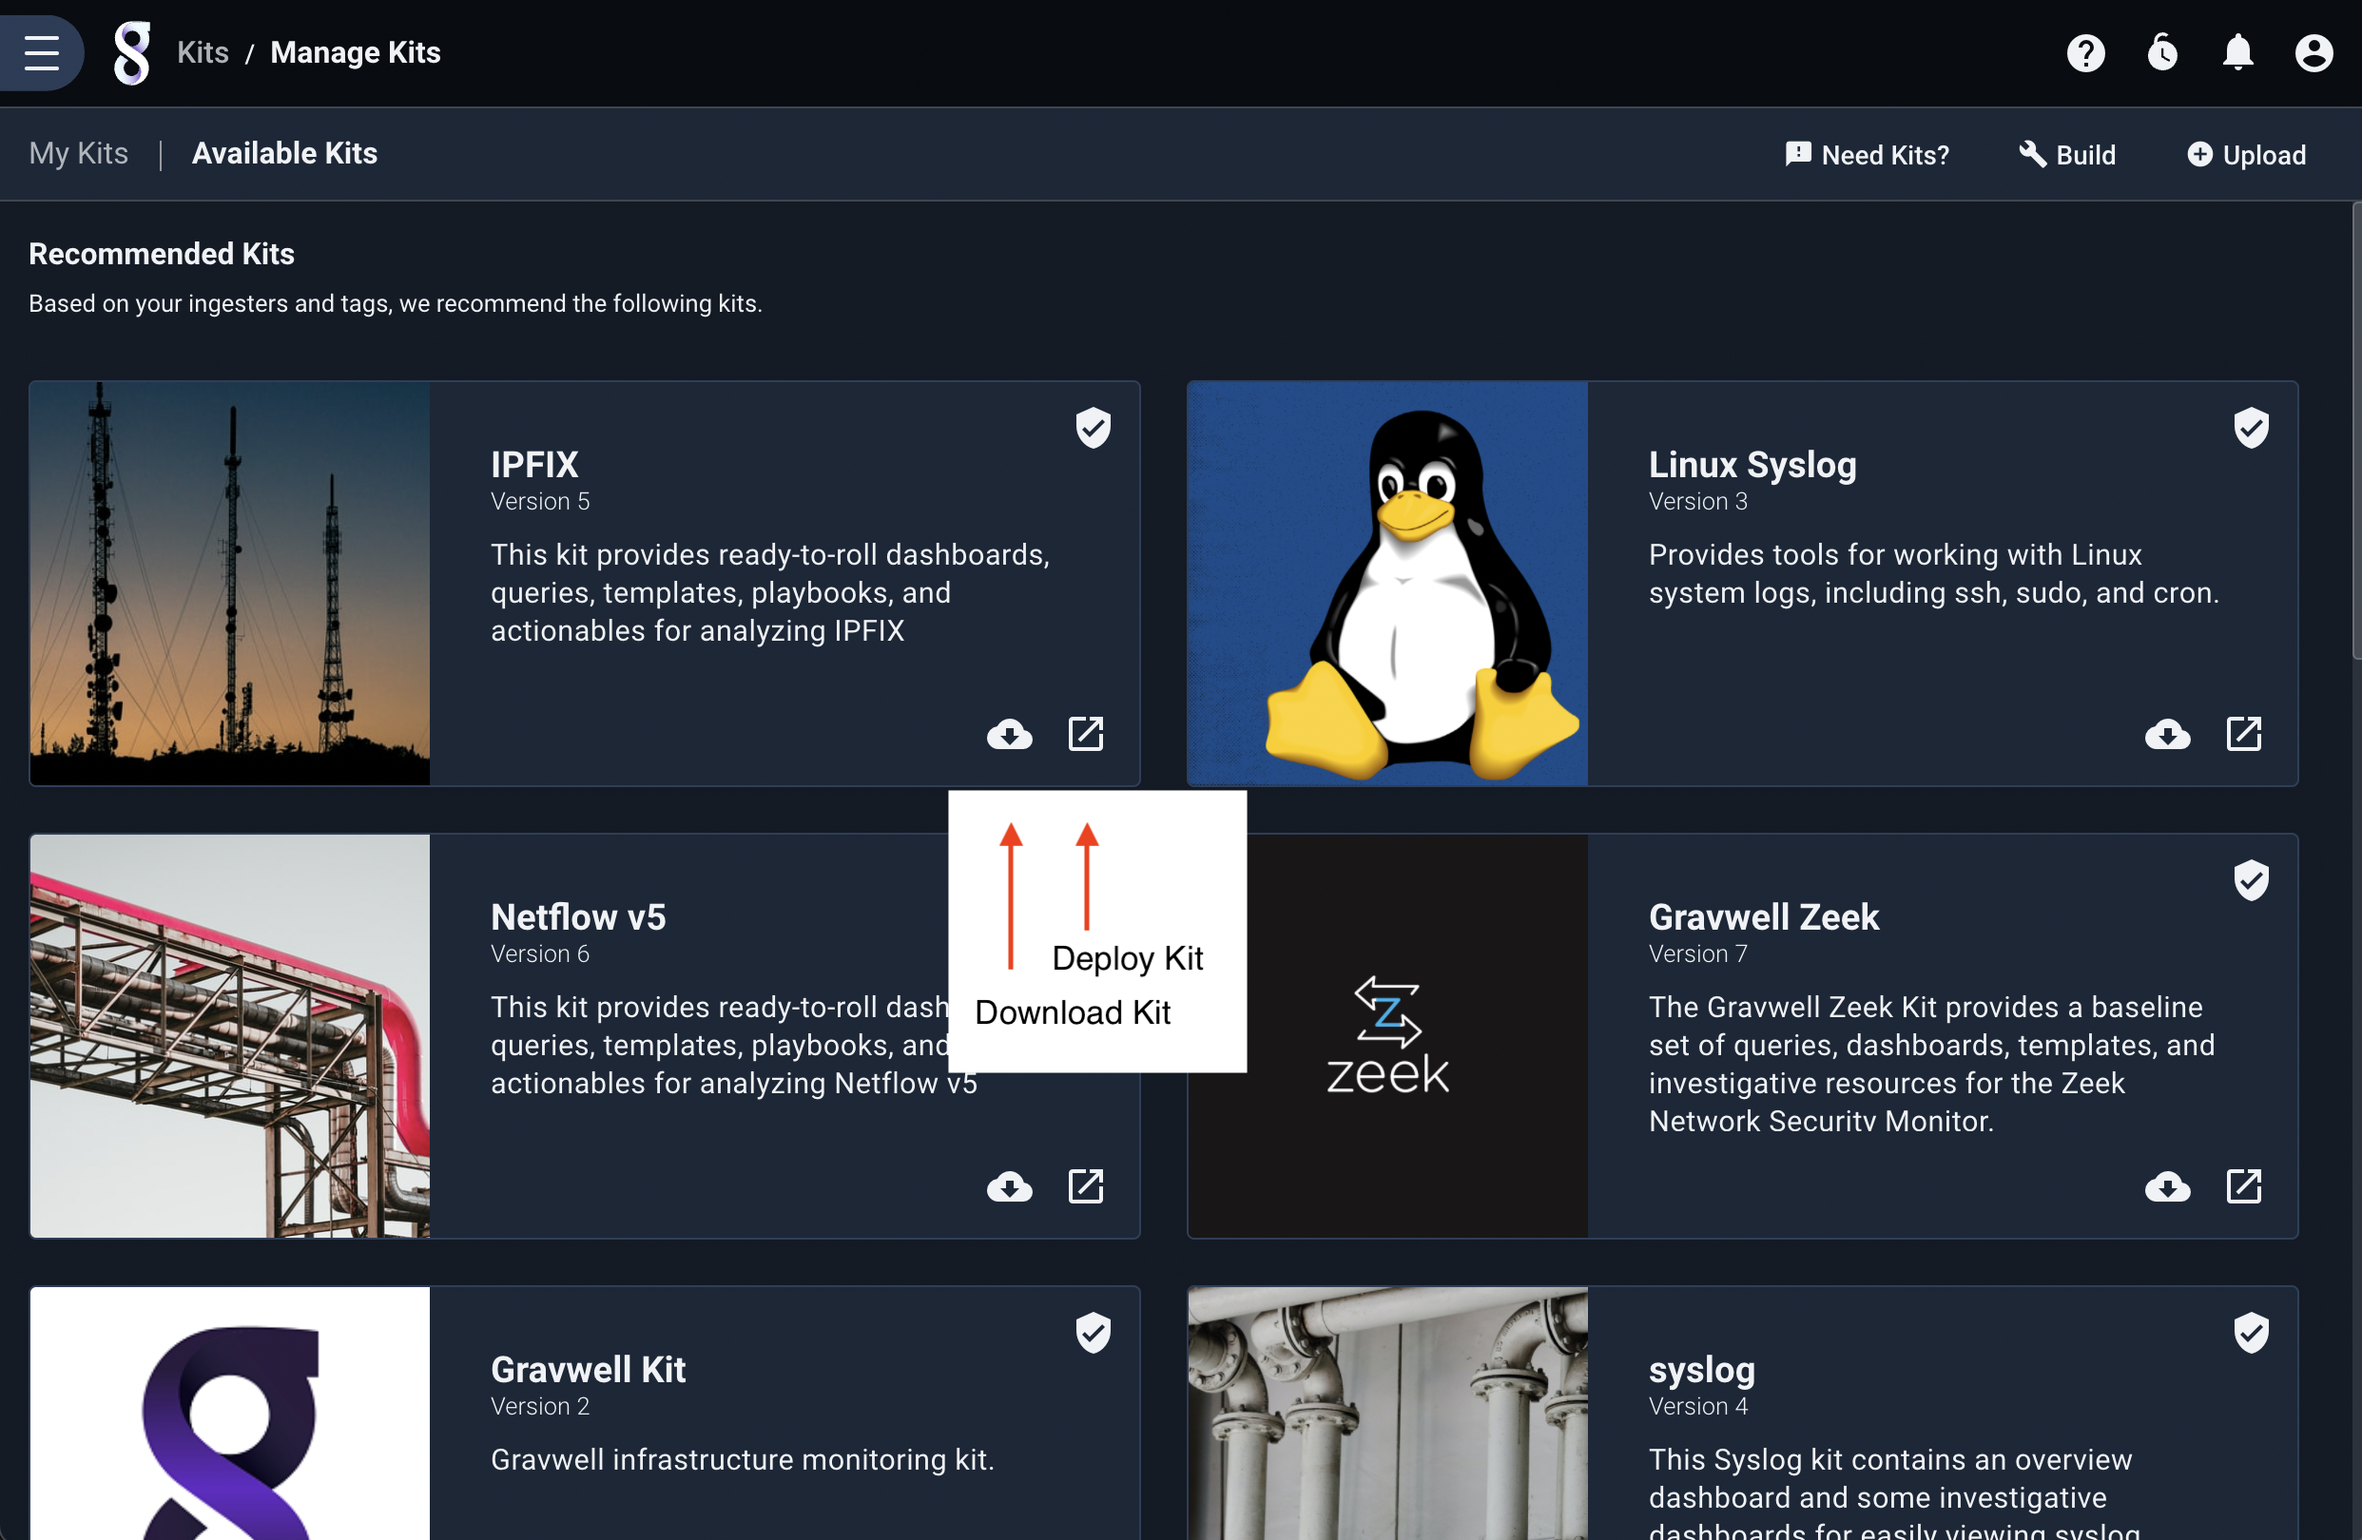
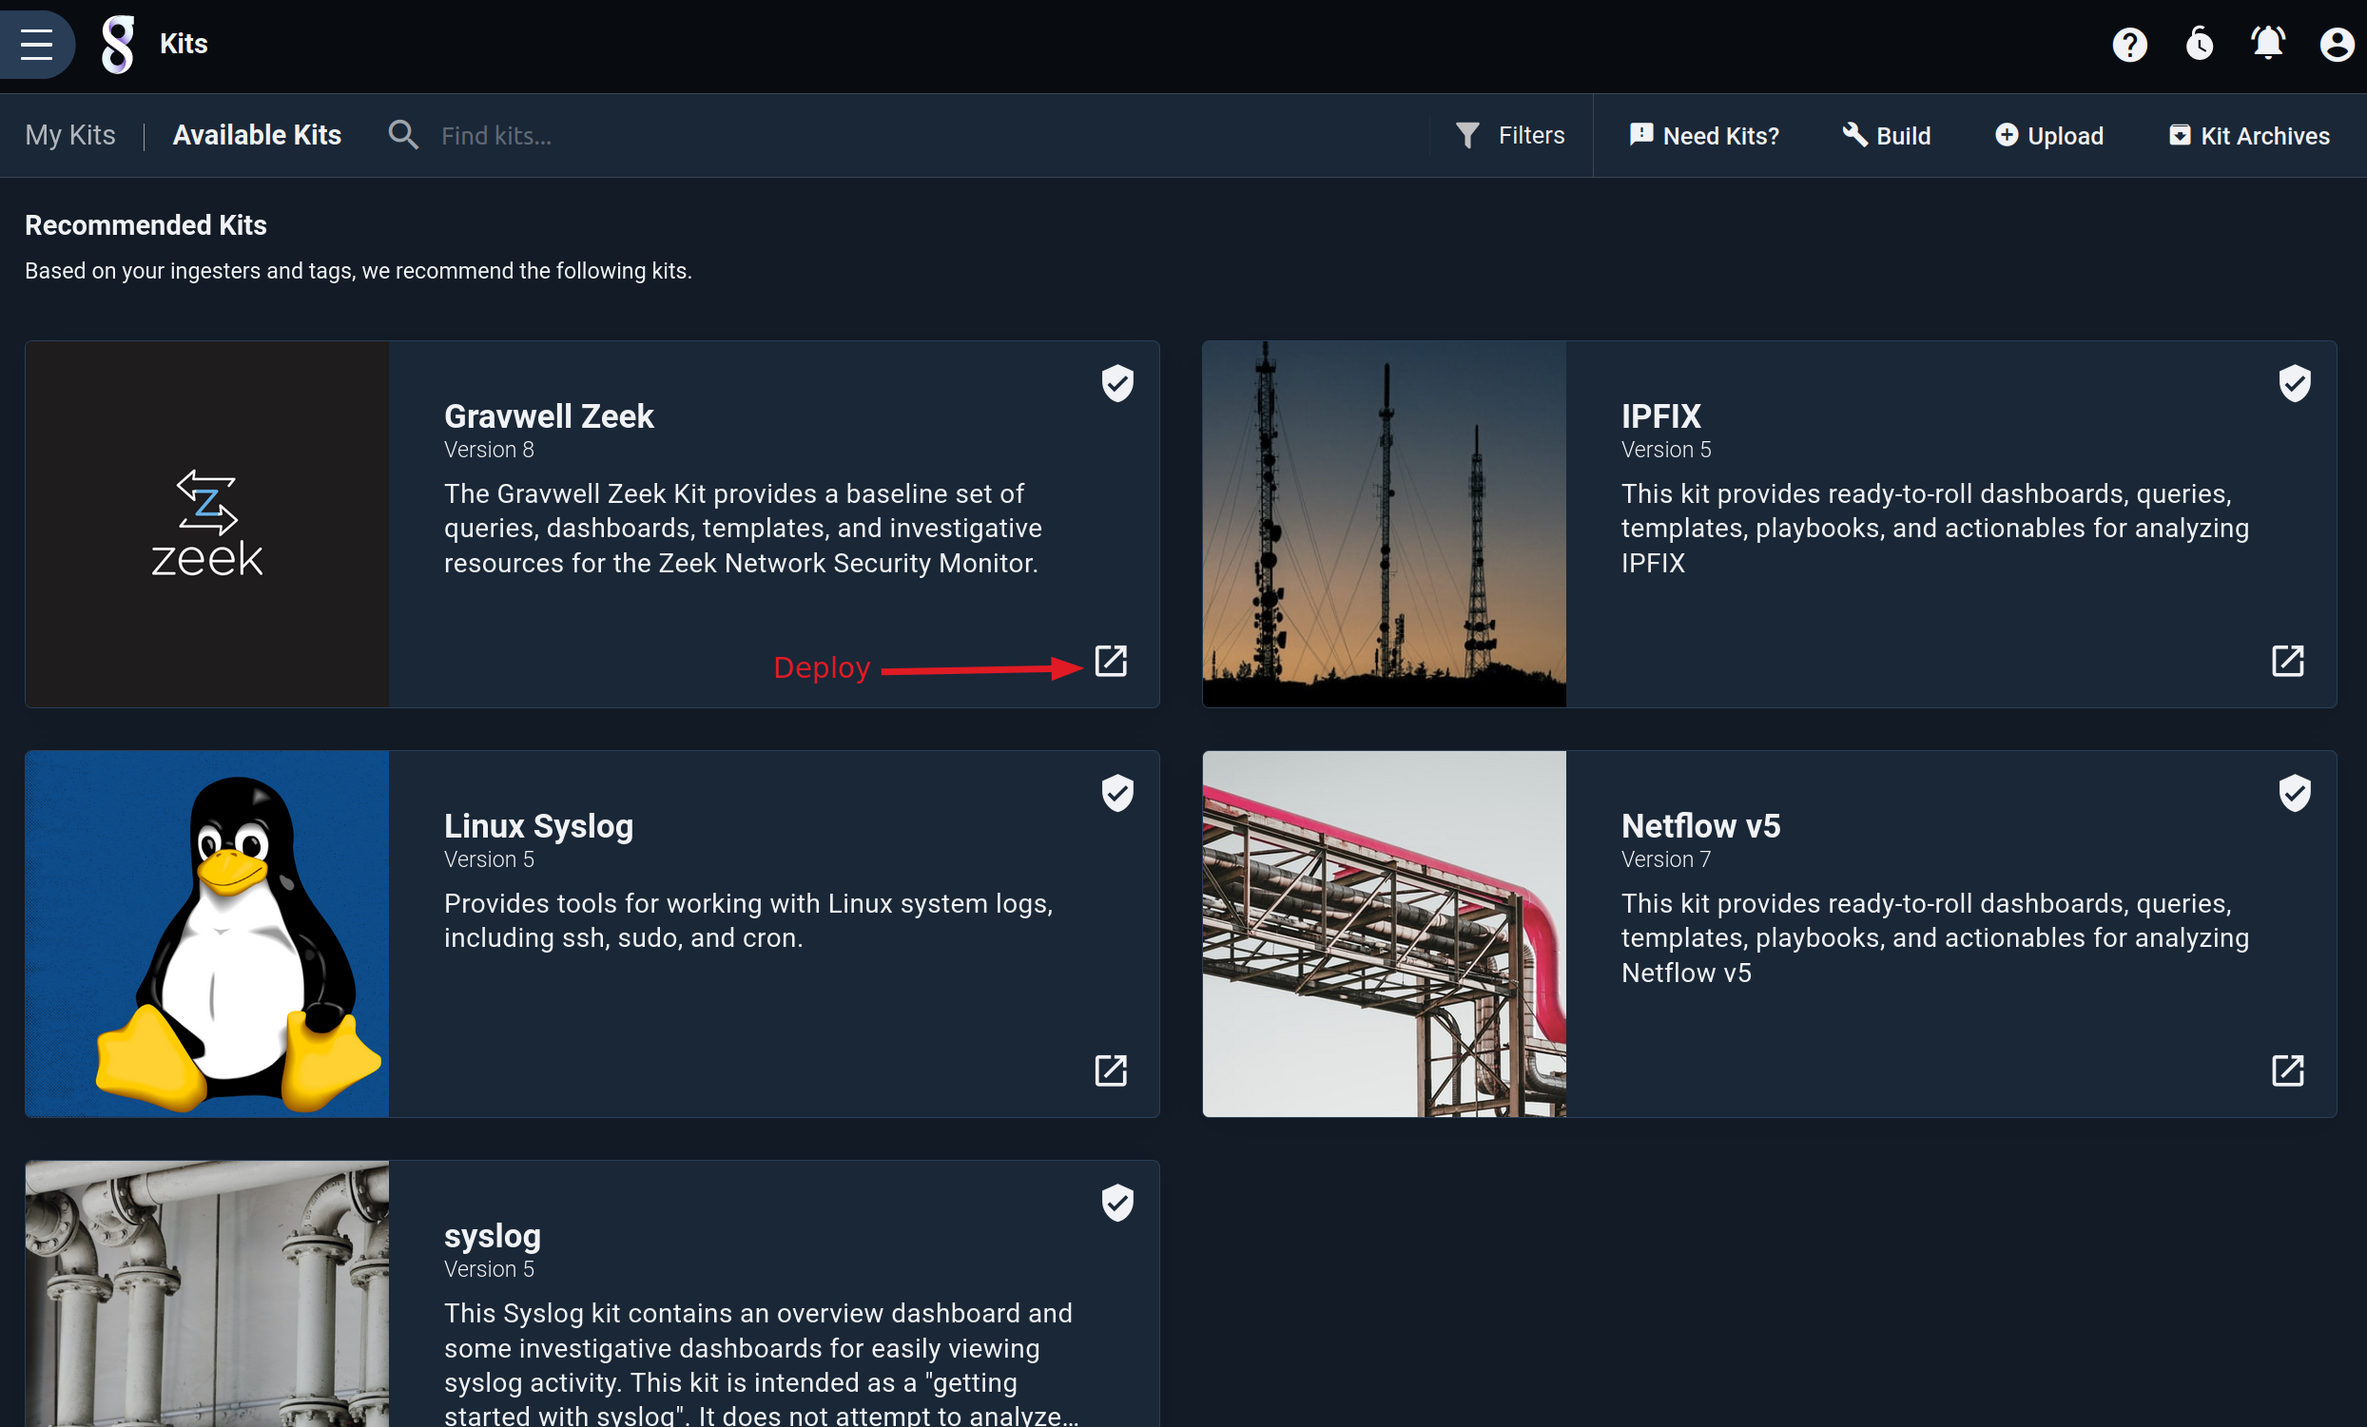
update kits after combiningmultiple kit menu items into one

diff --git a/kits/kits.md b/kits/kits.md
@@ -20,7 +20,7 @@ There are a few other things which help *identify* a kit that are useful to keep
 
 ## Browsing Installed Kits
 
-Kits are managed through the Kits page, located in the main menu. When you load the kits page, you will first see a list of installed kits. In the image below, we see two installed kits:
+Kits are managed through the Kits page, located in the main menu. When you load the kits page, you will first see a list of installed kits if there are any. If there are no kits staged or deployed, the available kits will be displayed instead. In the image below, we see two installed kits:
 
 ![](listkits.png)
 
@@ -28,19 +28,19 @@ Clicking one of the kits will put you into the *context* of the selected kit and
 
 ![](showkit.png)
 
-The UI is now in the kit's *context*, meaning it will only show that kit's contents until you leave the context. For example, browsing to the Dashboards page from the main menu will show only two two dashboards included with that particular kit:
+The UI is now in the kit's *context*, meaning it will only show that kit's contents until you leave the context. For example, browsing to the Resources page from the main menu will show only the resources included with that particular kit:
 
 ![](kitcontext.png)
 
-Note the text "Kits / Netflow v5 / Dashboards" at the top of the page. This indicates that we are *inside* that particular kit. To leave the kit context, click the Gravwell logo next to the main menu button.
+Note the text "Kits / Network enrichment / Resources" at the top of the page. This indicates that we are *inside* that particular kit. To leave the kit context, open the main menu and navigate back to "All Gravwell" or click the Gravwell logo next to the main menu.
 
 ## Installing Kits
 
-To install a kit, you must enter kit management mode by clicking the "Manage Kits" button in the upper-right corner of the main kits page. If you have no kits installed, the UI will automatically take you to the 'Available Kits' tab, otherwise the default view will show your currently-installed kits. To find and install kits, click the 'Available Kits' label at the top of the screen.
+To find and install kits, click the "Available Kits" tab in the upper-right corner of the main kits page. 
 
 ![](availablekits.png)
 
-You can click the kit details button to learn more about a given kit. Once you've decided on a kit to install, click the install kit button. The system will download the kit, then pop up a wizard for installation. In the screenshot below, we have selected the IPFIX kit for installation. The first page shows a list of items contained in the kit:
+You can click on the kit to view details and learn more about a given kit. Once you've decided on a kit to install, click the "Deploy" button. The system will pull the kit, then pop up a wizard for installation. In the screenshot below, we have selected the IPFIX kit for installation. The first page shows a list of items contained in the kit:
 
 ![](wizard1.png)
 
